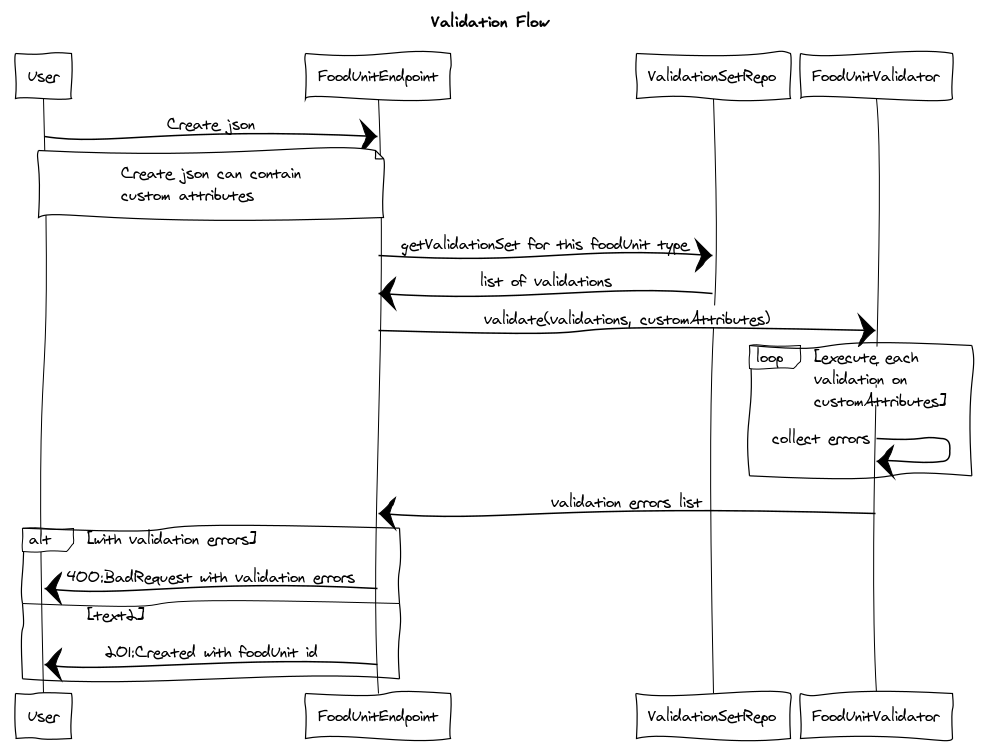
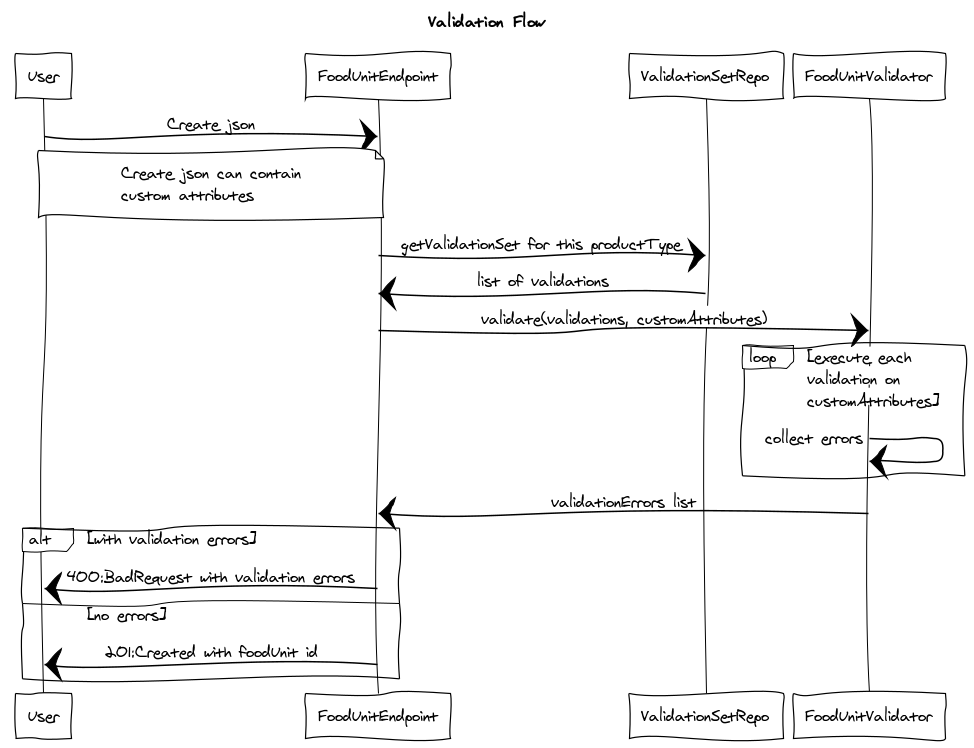
- docs

diff --git a/README.md b/README.md
@@ -1,3 +1,156 @@
-docker pull webpt/couchbase-server
 
-docker run -d --name couchbase-server -p 8091-8094:8091-8094 -p 11210-11211:11210-11211 webpt/couchbase-server
+# Motiion Take-Home Assignment
+
+##Architectural Overview
+
+The system allows users to create a rule set in Json, to be applied to a sequence of arbitrary attributes that appear on a Food Unit. The `ValidationSet` must be created first, where the `id` is the `productType`
+that the validations need to be applied to.
+
+Here is an example of what a `ValidationSet` may look like:
+
+```
+{
+  "id": "coffee",
+  "validations": [
+    {
+      "targetAttribute": "CuppingScore",
+      "validation": {
+        "$gt": 1
+      }
+    },
+    {
+      "targetAttribute": "treeVariety",
+      "validation": {
+        "$eq": "Arabica"
+      }
+    }
+  ]
+}
+```
+
+So we are saying that the `CuppingScore` must be greater than 1 and the `treeVariety` must be `Arabica`.  You can have any number of validations and they will all get executed.
+
+Now if a user submits a `FoodUnit` json object with `productType` equal to `coffee`, it will be first run through these validations.  Here is an example:
+
+```
+{
+  "owner" : "acmeCoffee",
+  "productType" : "coffee",
+  "unitDescription" : "honey roasted",
+  "mass" : 1.1,
+  "expiryDate" : "2018-09-25T03:45:49.788Z",
+  "attributes" : {
+    "CuppingScore" : 2,
+    "treeVariety" : "Arabica"
+  }
+}
+```
+
+**Note that only the json fields in the `attributes` element will be validated.**
+
+If there were errors during creation, they will be returned to the user. Otherwise, the `FoodUnit` will be created and the associated `id` will be returned.
+
+
+Here is an overview of the sequence of steps that occur during a create:
+
+![Validation Flow](Validation%20Flow.png)
+
+## Rest Endpoints
+
+###ValidationSet
+####Get the `ValidationSet`
+`GET /validations`
+
+
+####Create a `ValidationSet`
+`POST /validations`
+
+Body:
+```
+    {
+      "id": "coffee",
+      "validations": [
+        {
+          "targetAttribute": "CuppingScore",
+          "validation": {
+            "$gt": 1
+          }
+        },
+        {
+          "targetAttribute": "treeVariety",
+          "validation": {
+            "$eq": "Arabica"
+          }
+        }
+      ]
+    }
+```
+
+####Delete a `ValidationSet`
+`DELETE /validations/<id>`
+
+###FoodUnit
+
+`POST /food-units`
+
+Body:
+```
+{
+  "owner" : "acmeCoffee",
+  "productType" : "coffee",
+  "unitDescription" : "honey roasted",
+  "mass" : 1.1,
+  "expiryDate" : "2018-09-25T03:45:49.788Z",
+  "attributes" : {
+    "CuppingScore" : 2,
+    "treeVariety" : "Arabica"
+  },
+  "locations":[{
+                "longitude":34.1,
+                "latitude":45.2
+               }]
+}
+```
+
+`PUT /food-units/<id>`
+
+With `FoodUnit` json payload.
+
+`GET /food-units/<id>`
+
+`DELETE /food-units/<id>`
+
+###FoodUnit Locations
+
+`GET /food-units/<id>/locations` - get a list of all locations for a `FoodUnit`
+
+`GET /food-units/<id>/locations?maxResult=<max>` - get a list of locations with `<max>` results.  The list is in descending order by `createdDate` so to see the latest, set `<max>` to 1.
+
+`POST /food-units/<id>/locations` - add a new Location 
+
+
+###Technologies Used
+- Akka Http
+- Couchbase (because I had all the code already :-) )
+- Cats - for its Validation api
+- ScalaTest
+
+###Assumptions & Simplifations
+1. The validation dsl is very straight forward and only supports the following:
+  *`$eq` for equality of numbers and strings   
+  *`$gt`, `$gte`, `$lt`, `$lte` for comparing numbers 
+    
+
+
+
+
+### Get the Code
+`https://github.com/khalidr/motiion.git`
+
+### How to Run the Tests
+
+```
+docker-compose up -d
+sbt test
+```
+
